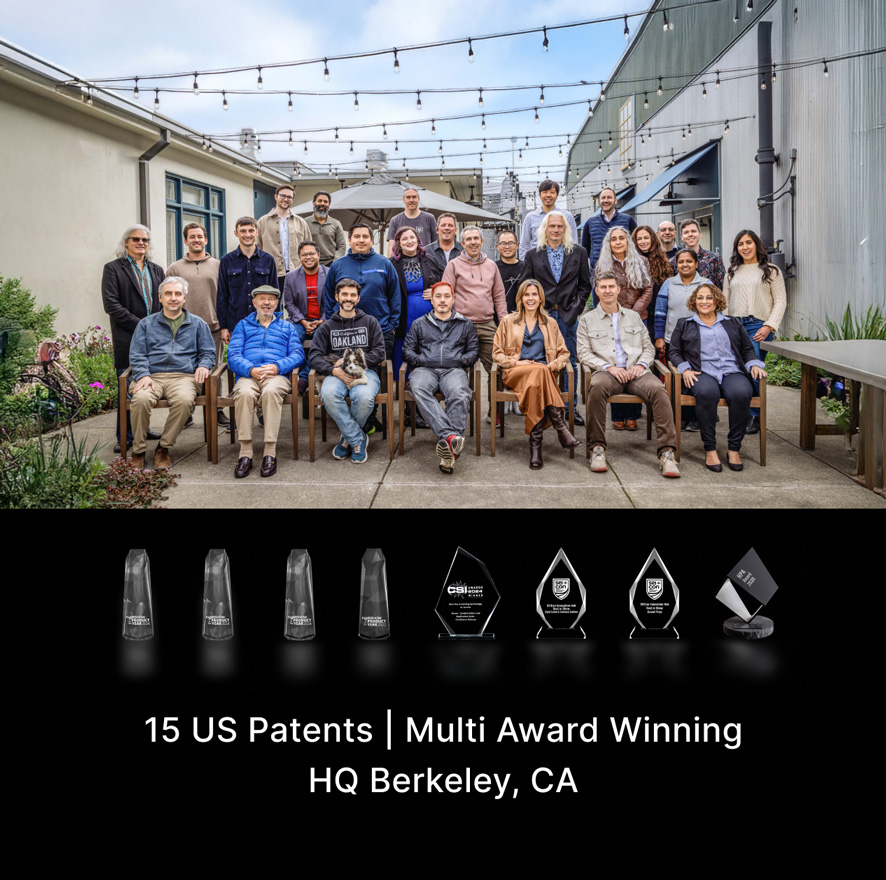
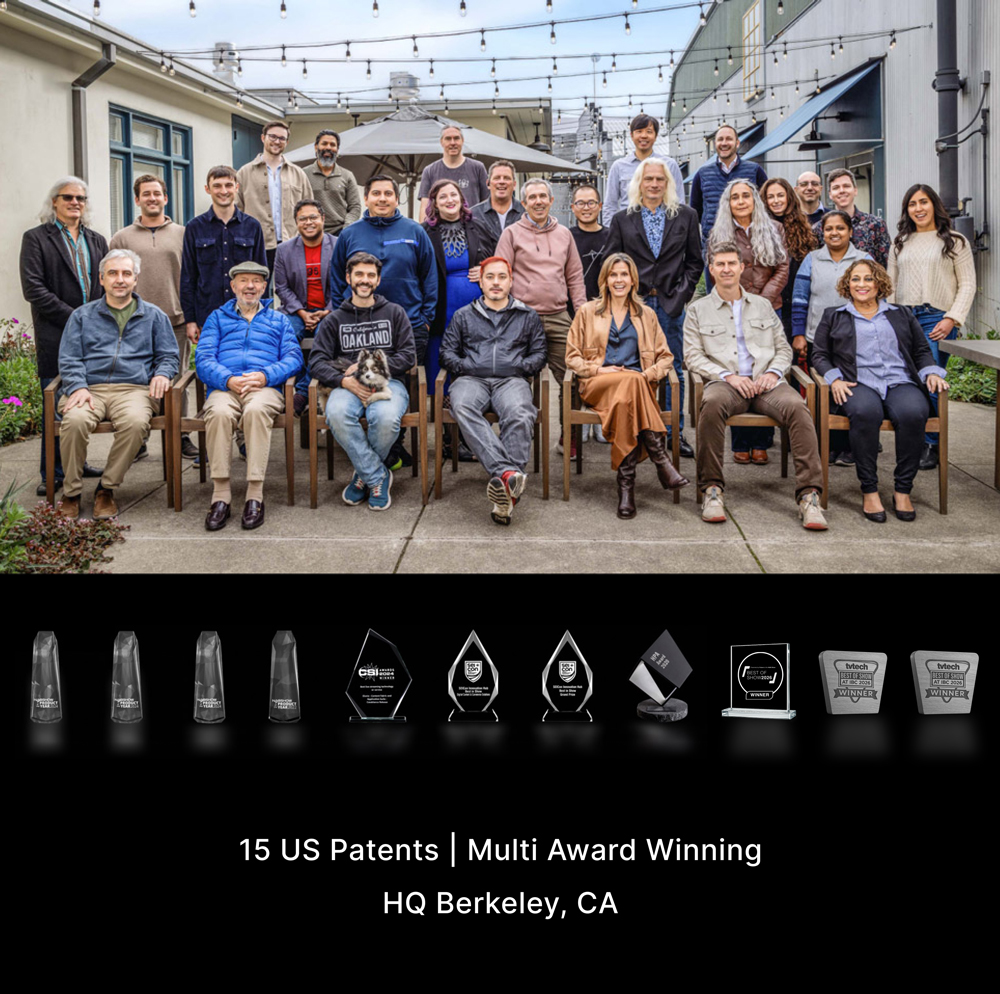
Post ibc 2026 (#85)
* Update link with ibc awards

* Fix notification banner text flexbox

* Fix header flex items

* Fix header padding

* Update button hover state

* Update team card mobile image

* Update team desktop image

* Rever headerblock dark theme

* Update header logo

* Update cta text

diff --git a/src/main/components/Header.js b/src/main/components/Header.js
@@ -1,4 +1,4 @@
-import React, {useEffect, useState} from "react";
+import React, {useEffect, useRef, useState} from "react";
 
 import {observer} from "mobx-react";
 import ImageIcon from "./ImageIcon";
@@ -15,46 +15,67 @@ import UrlJoin from "url-join";
 import {Box, Flex, Text} from "@mantine/core";
 
 export const NotificationBanner = observer(({className="", mobile}) => {
+  const textRef = useRef(null);
+  const [isTruncated, setIsTruncated] = useState(false);
+
+  useEffect(() => {
+    const element = textRef.current;
+    if(!element) { return; }
+
+    const CheckTruncation = () => setIsTruncated(element.scrollWidth > element.clientWidth);
+
+    CheckTruncation();
+
+    const resizeObserver = new ResizeObserver(CheckTruncation);
+    resizeObserver.observe(element);
+
+    return () => resizeObserver.disconnect();
+  }, [mainStore.notification?.plain_text]);
+
   if(!mainStore.notification) { return null; }
 
   return (
     <div className={`notification-banner ${className}`}>
-      <h3>{ mainStore.notification.header }</h3>
       {
         mobile ?
           (
-            <Flex direction="row" wrap="nowrap" w="100%" gap={8}>
-              <Flex direction="row" wrap="nowrap" w="100%" miw={0} pos="relative">
-                <Text richText={mainStore.notification.plain_text} className="notification-banner__text" fz={14}>
-                  { mainStore.notification.plain_text }
-                </Text>
-                <Box className="notification-banner__text-gradient" />
-              </Flex>
-              <Box flex={1}>
-                <Action to={mainStore.notification.link}>
-                  <Text fz={14} fw={700} wrap="nowrap">
-                    { mainStore.notification.link_text } →
+            <Flex direction="column" w="100%">
+              <h3>{ mainStore.notification.header }</h3>
+              <Flex direction="row" wrap="nowrap" w="100%" gap={8}>
+                <Flex direction="row" wrap="nowrap" w="100%" miw={0} pos="relative">
+                  <Text richText={mainStore.notification.plain_text} className="notification-banner__text" fz={14} truncate="end">
+                    { mainStore.notification.plain_text }
                   </Text>
-                </Action>
-              </Box>
+                </Flex>
+                <Box flex={1}>
+                  <Action to={mainStore.notification.link}>
+                    <Text fz={14} fw={700} wrap="nowrap" truncate="end">
+                      { mainStore.notification.link_text } →
+                    </Text>
+                  </Action>
+                </Box>
+              </Flex>
             </Flex>
           ) :
           (
-            <Flex direction="row" gap={6} justify="center" wrap="nowrap" w="100%">
-              <Box maw="100%" miw={0} pos="relative" className="notification-banner__text-gradient-container">
-                <Text className="notification-banner__text-desktop" lineClamp={1} fz={16} fw={500} truncate={"end"}>
-                  {mainStore.notification.plain_text}
-                </Text>
-                <Box className="notification-banner__text-gradient" />
-              </Box>
-              <Box flex={1}>
-                <Action to={mainStore.notification.link}>
-                  <Text fz={mobile ? 14 : 16} fw={700}>
-                    { mainStore.notification.link_text } →
+            <>
+              <h3>{ mainStore.notification.header }</h3>
+              <Flex direction="row" gap={6} justify="flex-start" wrap="nowrap" w="100%">
+                <Box flex="0 1 auto" miw={0} pos="relative" className="notification-banner__text-gradient-container">
+                  <Text ref={textRef} className="notification-banner__text-desktop" lineClamp={1} fz={16} fw={500} truncate={"end"}>
+                    {mainStore.notification.plain_text}
                   </Text>
-                </Action>
-              </Box>
-            </Flex>
+                  { isTruncated && <Box className="notification-banner__text-gradient" /> }
+                </Box>
+                <Box flex="0 0 auto">
+                  <Action to={mainStore.notification.link}>
+                    <Text fz={mobile ? 14 : 16} fw={700} wrap="nowrap">
+                      { mainStore.notification.link_text } →
+                    </Text>
+                  </Action>
+                </Box>
+              </Flex>
+            </>
           )
       }
     </div>

diff --git a/src/main/pages/main/Main.js b/src/main/pages/main/Main.js
@@ -27,8 +27,8 @@ import {
 } from "../../static/icons/Icons";
 import {SocialIcons} from "../../static/icons/Icons";
 
-import EluvioColorLogo from "../../static/images/logos/eluvio-logo-color.png";
-import IBC2026Logo from "../../static/images/main/ibc-2026-logo";
+import EluvioColorLogo from "../../static/images/logos/eluvio-best-of-show";
+import IBC2026Logo from "../../static/images/main/ibc-2026-logo-mark";
 
 import AppIconFB from "../../static/icons/apps_new/1_Fabric_Browser";
 import AppIconIngest from "../../static/icons/apps_new/2_Media_Ingest";
@@ -68,7 +68,6 @@ import EluvioGroupMobileImage from "../../static/images/main/team-card-mobile.jp
 import ClientGroupDesktopImage from "../../static/images/main/clients/client-group-desktop";
 import ClientGroupMobileImage from "../../static/images/main/clients/client-group-mobile";
 import {
-  Anchor,
   AspectRatio,
   BackgroundImage,
   Box,
@@ -106,7 +105,7 @@ const HeaderBlock = observer(({mobile}) => {
               mobile &&
               <MantineButton color="white.0" radius={5} component="a" href="https://eluv.io/community" target="_blank" size="xs" h="auto" py="sm" style={{whiteSpace: "normal"}}>
                 <Text fz={15} fw={700} lh={1.4} c="black.0" style={{whiteSpace: "normal"}}>
-                  See us at &nbsp;<ImageIcon icon={IBC2026Logo} height={25} style={{display: "inline-block", verticalAlign: "middle"}} />. Check out <Anchor href="https://ibc.eluv.io" target="_blank" c="black.0" fw={700} underline="always" onClick={event => event.stopPropagation()}>ibc.eluv.io</Anchor> for the new product announcements, demo schedule and more →
+                  Eluvio Content Fabric and Video Intelligence wins 2X Best of Show at &nbsp;<ImageIcon icon={IBC2026Logo} height={25} style={{display: "inline-block", verticalAlign: "middle"}} />&nbsp; IBC 2026! Learn more →
                 </Text>
               </MantineButton>
             }
@@ -131,7 +130,7 @@ const HeaderBlock = observer(({mobile}) => {
                 <Stack gap={6} align="start">
                   <Group gap={8}>
                     <Text fz={15} fw={700} lh={1.4} c="black.0">
-                      See us at &nbsp;<ImageIcon icon={IBC2026Logo} height={25} style={{display: "inline-block", verticalAlign: "middle"}} />. Check out <Anchor href="https://ibc.eluv.io" target="_blank" c="black.0" fw={700} underline="always" onClick={event => event.stopPropagation()}>ibc.eluv.io</Anchor> for the new product announcements, demo schedule and more →
+                      Eluvio Content Fabric and Video Intelligence wins 2X Best of Show at &nbsp;<ImageIcon icon={IBC2026Logo} height={25} style={{display: "inline-block", verticalAlign: "middle"}} />&nbsp; IBC 2026! Learn more →
                     </Text>
                   </Group>
                 </Stack>

diff --git a/src/main/static/stylesheets/main.scss b/src/main/static/stylesheets/main.scss
@@ -1070,7 +1070,7 @@
   }
 
   &__app-tabs-container {
-    min-height: 50vh;
+    //min-height: 50vh;
   }
 
   &__app-tabs {
@@ -1123,7 +1123,7 @@
   &__app-tabs-panel-content {
     display: flex;
     flex-direction: row;
-    gap: 0;
+    gap: 30px;
     width: 100%;
 
     .image-icon {
